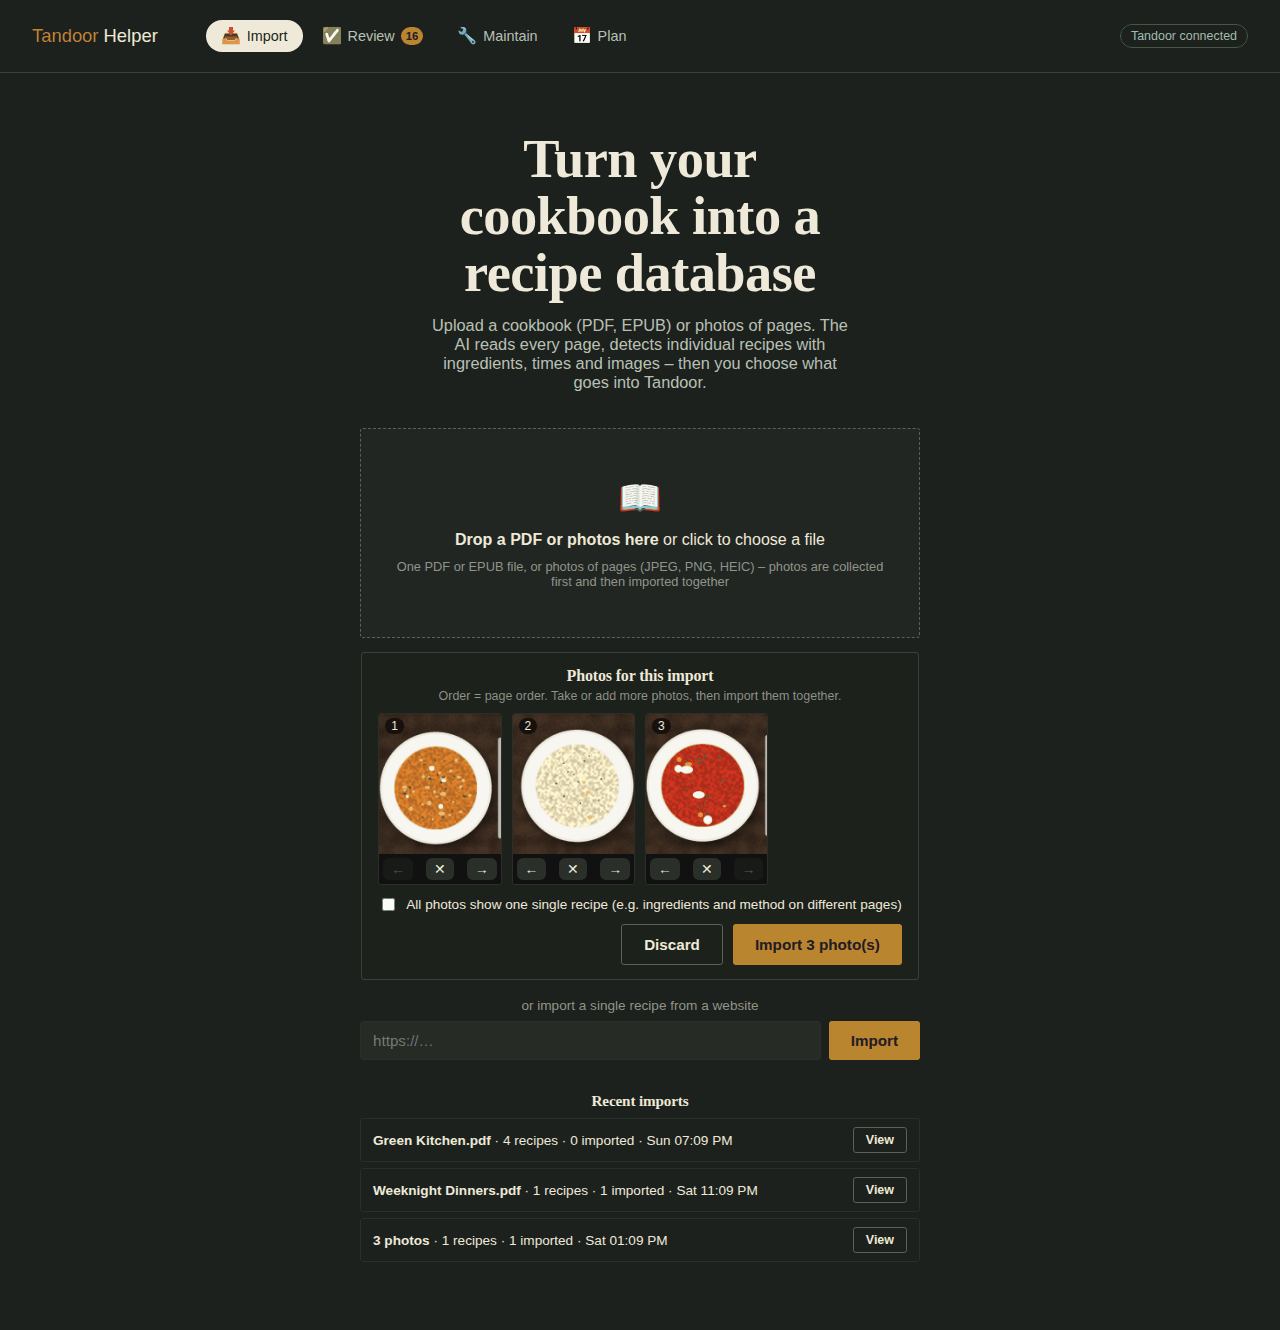
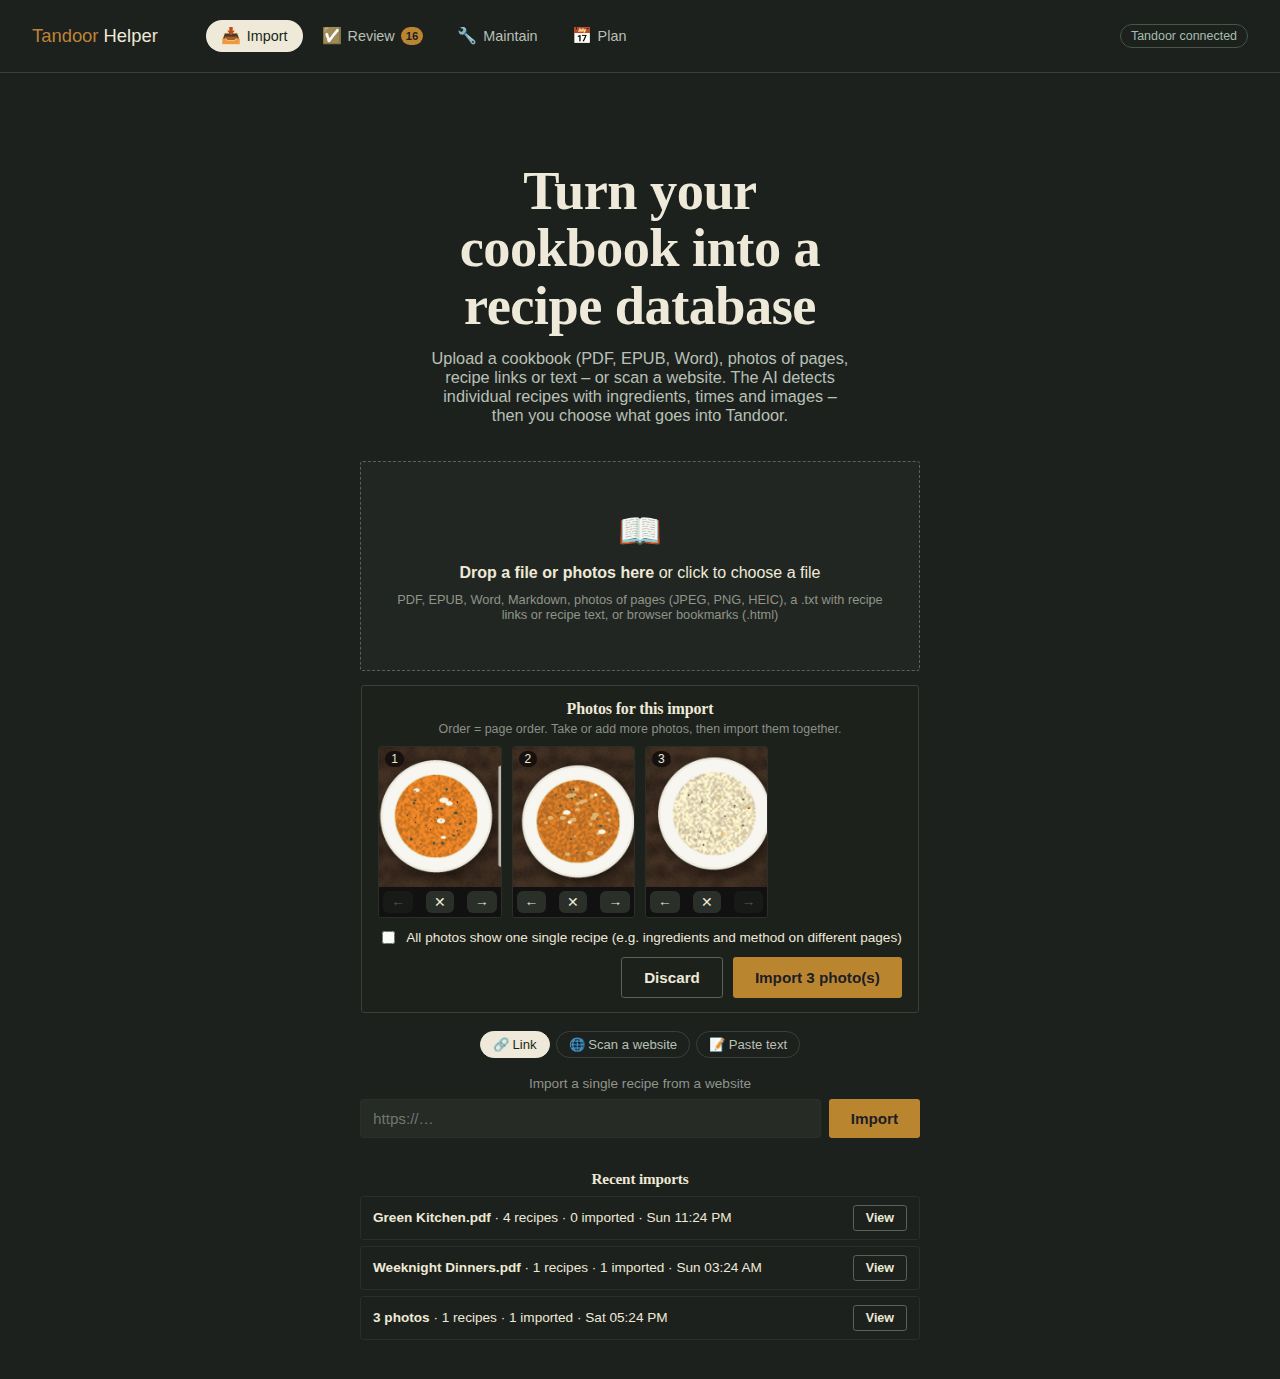
Describe the new import sources in the README
The import section now covers Word, .txt (links or text), Markdown,
browser bookmarks, the website scan and pasted text, with a new
screenshot of the scan's pick list and an updated import-page screenshot
(tabs below the drop area). Adds a tip for recipes from other apps
(import them in Tandoor, then run Process new recipes), the new modules
in the architecture overview and the scan's limits.

Claude-Session: https://claude.ai/code/session_01KV2EcVQ4Nu6sQEhu8m5MK2

diff --git a/README.md b/README.md
@@ -1,7 +1,9 @@
 # Tandoor Helper
 
 A companion web app for [Tandoor Recipes](https://tandoor.dev/). It **imports
-whole cookbooks** (PDF, EPUB, phone photos, web pages, lists of links) with the help of an AI
+recipes from almost anywhere** – cookbooks (PDF, EPUB, Word), phone photos,
+web pages, whole recipe websites, browser bookmarks, pasted text – with the
+help of an AI
 (Claude, ChatGPT or Gemini), **keeps your collection tidy** (duplicates,
 translations, nutrition, unit conversions, tags …) and **helps you plan
 meals** from your own recipes. It never changes anything behind your back:
@@ -29,23 +31,52 @@ bar).
 
 ### 📥 Import
 
-- **Cookbooks as PDF or EPUB** – the AI reads every page (in overlapping
-  chunks, so books with hundreds of pages work), finds each recipe with its
-  page range, ingredients, steps, times, servings, tags and photo.
+**Files** – drop them on the import area or click to choose:
+
+- **Cookbooks as PDF, EPUB or Word (.docx)** – the AI reads every page (in
+  overlapping chunks, so books with hundreds of pages work), finds each
+  recipe with its page range, ingredients, steps, times, servings, tags and
+  photo. Pictures embedded in a Word document become photo candidates.
 - **Photos of cookbook pages** – drop them in or, on the phone, take them one
   by one with the camera. They are collected first, can be reordered and
   removed, and are imported together; tick *"all photos show one single
   recipe"* when ingredients and method are on different pages. Scans and
   photos go through OCR (Tesseract) with deskewing, cropping and two-page
   spread detection.
-- **Recipes from web pages** – paste a URL, or drop a **`.txt` file with a
-  list of links** (one per line, or any text containing links; up to 50).
-  Each page is read on its own – its schema.org recipe data is used when
-  present – and the link is kept as the recipe's source in Tandoor. Links
-  that can't be loaded or contain no recipe are skipped and listed in the
-  review.
-- Everything is **translated into your language** (`OUTPUT_LANGUAGE`) and
-  **converted to metric** on the way.
+- **A `.txt` file** – either a **list of recipe links** (one per line, or any
+  text containing links; up to 50) or **recipe text**; the app tells them
+  apart by the content. Markdown files (`.md`) are read as text.
+- **Browser bookmarks** – the HTML export of Chrome, Firefox, Safari or Edge
+  opens a pick list with the bookmark folders as a filter.
+
+**From the web and the clipboard** – three tabs below the import area:
+
+- **🔗 Link** – a single recipe page.
+- **🌐 Scan a website** – enter a food blog's homepage or a category page.
+  The app looks for recipe pages – via the site's sitemap, or by following
+  the links of the page you entered (incl. "page 2, 3 …") – and recognizes
+  them by the recipe data they embed (schema.org), **without AI**. Results
+  show up while it runs, with photo, time and an *already in Tandoor* mark;
+  you pick which ones to import. It respects the site's `robots.txt`, reads
+  at most one page per second and checks up to 300 pages.
+- **📝 Paste text** – a recipe from a message, an email or a note.
+
+<p align="center">
+  <img src="screenshots/scan.png" alt="Picking recipes found by the website scan" width="70%">
+</p>
+
+Links (single, from a list, a scan or bookmarks) are read one page at a
+time – the page's schema.org recipe data is used when present – and each
+recipe keeps its link as the source in Tandoor. Links that can't be loaded
+or contain no recipe are skipped and listed in the review.
+
+Everything is **translated into your language** (`OUTPUT_LANGUAGE`) and
+**converted to metric** on the way.
+
+> **Recipes from other apps** (Paprika, Mealie, Nextcloud Cookbook,
+> RecipeSage, …): Tandoor imports their export files itself, on its own
+> import page. Afterwards run **Process new recipes** on the 🔧 Maintain page to
+> translate them, match their ingredients to yours and add tags.
 
 Before anything goes into Tandoor you review the result:
 
@@ -352,6 +383,8 @@ backend/
 
     # Import
     pdf_processor.py, epub_processor.py, image_processor.py, url_processor.py (web pages, link lists)
+    docx_processor.py, text_processor.py   Word documents; pasted text, Markdown, .txt (links or text)
+    site_scan.py            Website scan: sitemap / link crawl, schema.org recipe detection (no AI)
     ocr.py, image_preprocessing.py   Tesseract OCR, deskew/crop, two-page spreads
     ai_extractor.py         Recipe extraction: prompt, chunking, dedup, language detection
     import_matching.py      Match ingredients against Tandoor before the review
@@ -401,6 +434,10 @@ GitHub runs them on every pull request (`.github/workflows/tests.yml`).
 - Ingredient-to-step assignment and image matching are done by the AI or
   heuristically – worth a glance in the review screen for complex recipes.
 - Duplicate recipe detection compares titles only, not ingredients.
+- The website scan only finds pages that embed schema.org recipe data, and
+  sites that load their content with JavaScript or block bots (e.g. behind
+  Cloudflare) yield little or nothing. It is meant for picking recipes for
+  your own collection – respect the site's terms.
 - Imports that haven't been sent to Tandoor yet are lost when the container
   restarts (open suggestions, the queue and the undo history are kept).
 - `TOC_AWARE_CHUNKING` (aligning chunks to a PDF's table of contents) is
